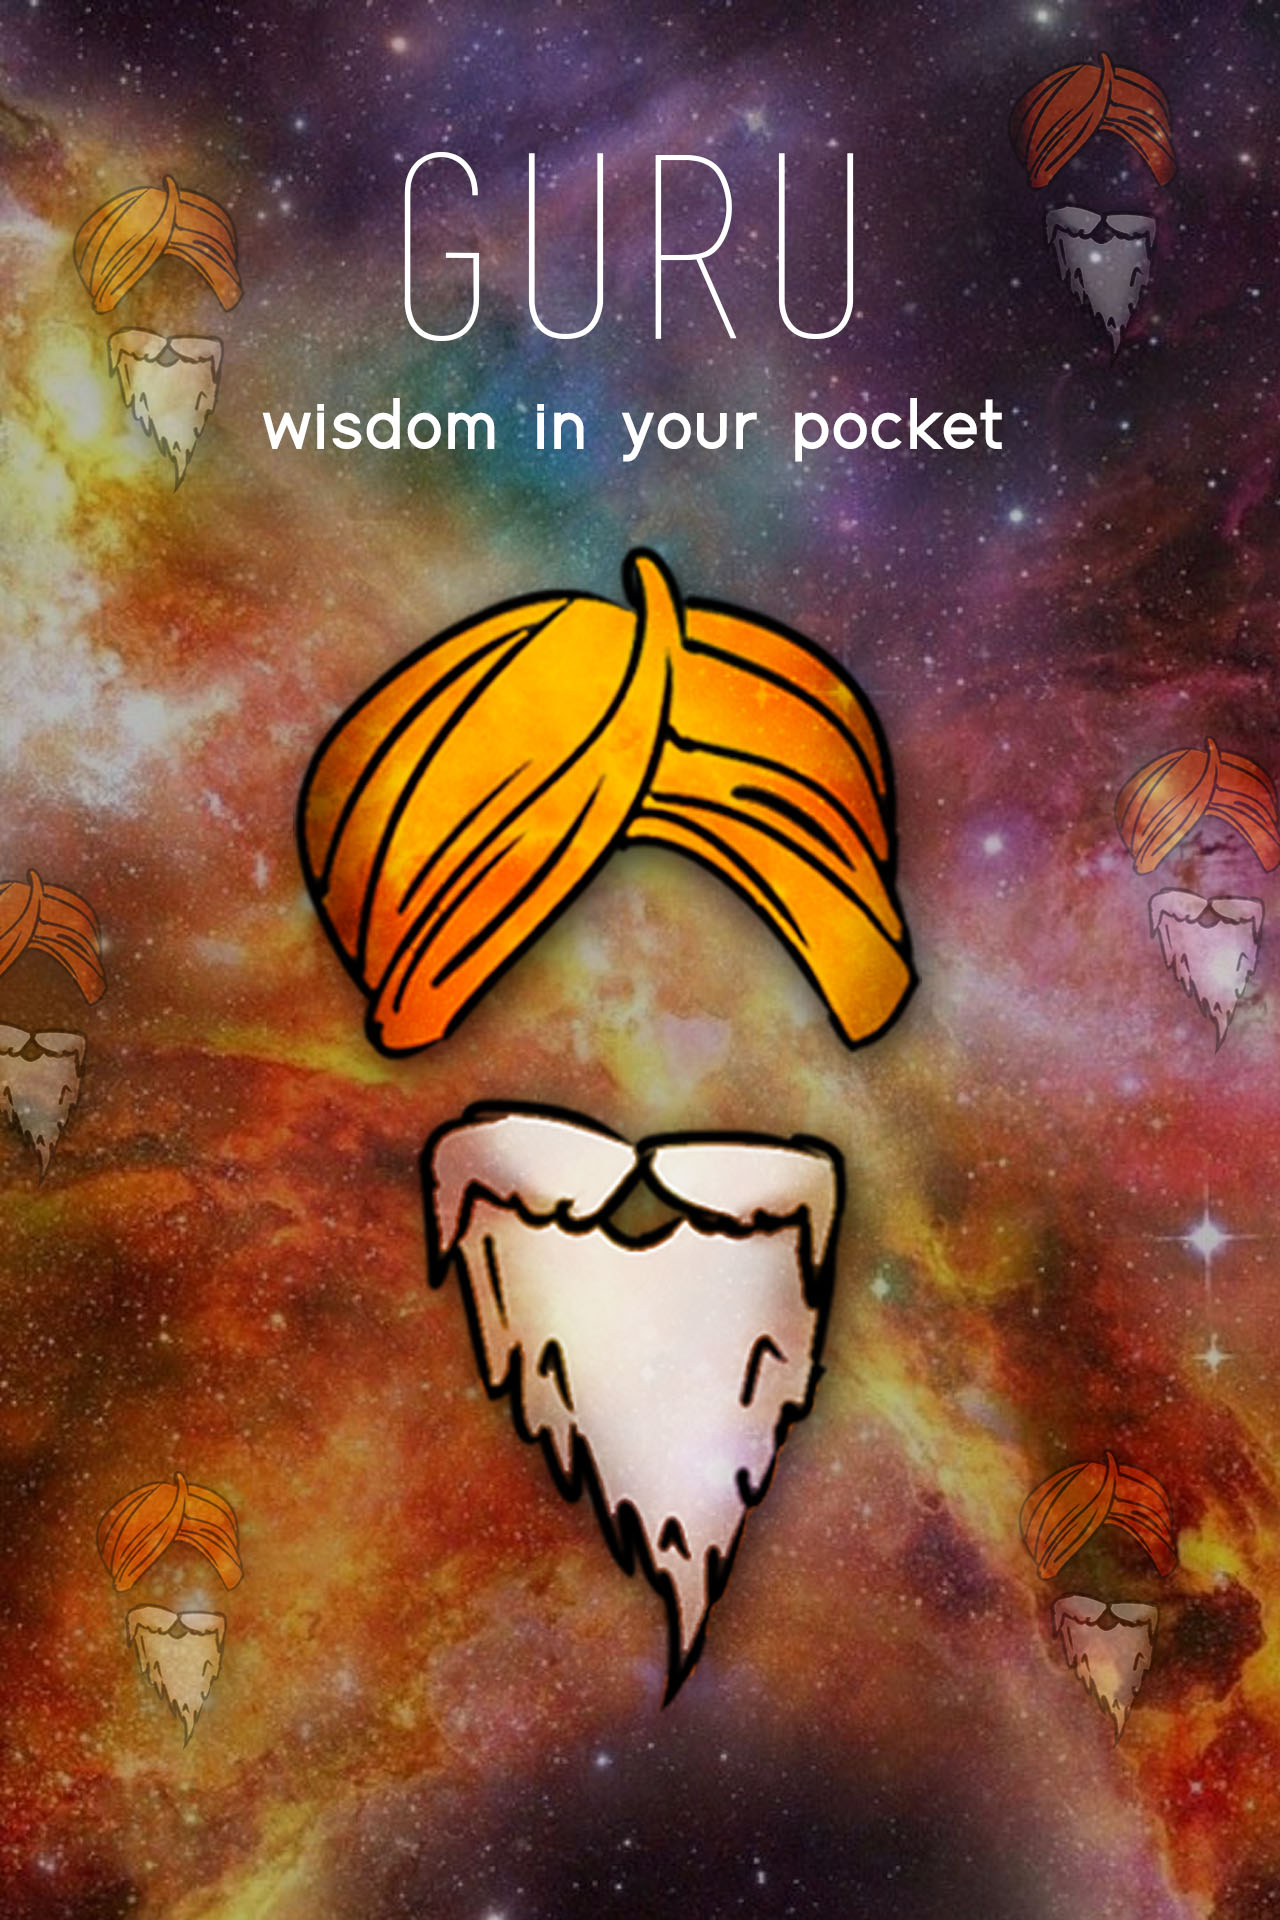
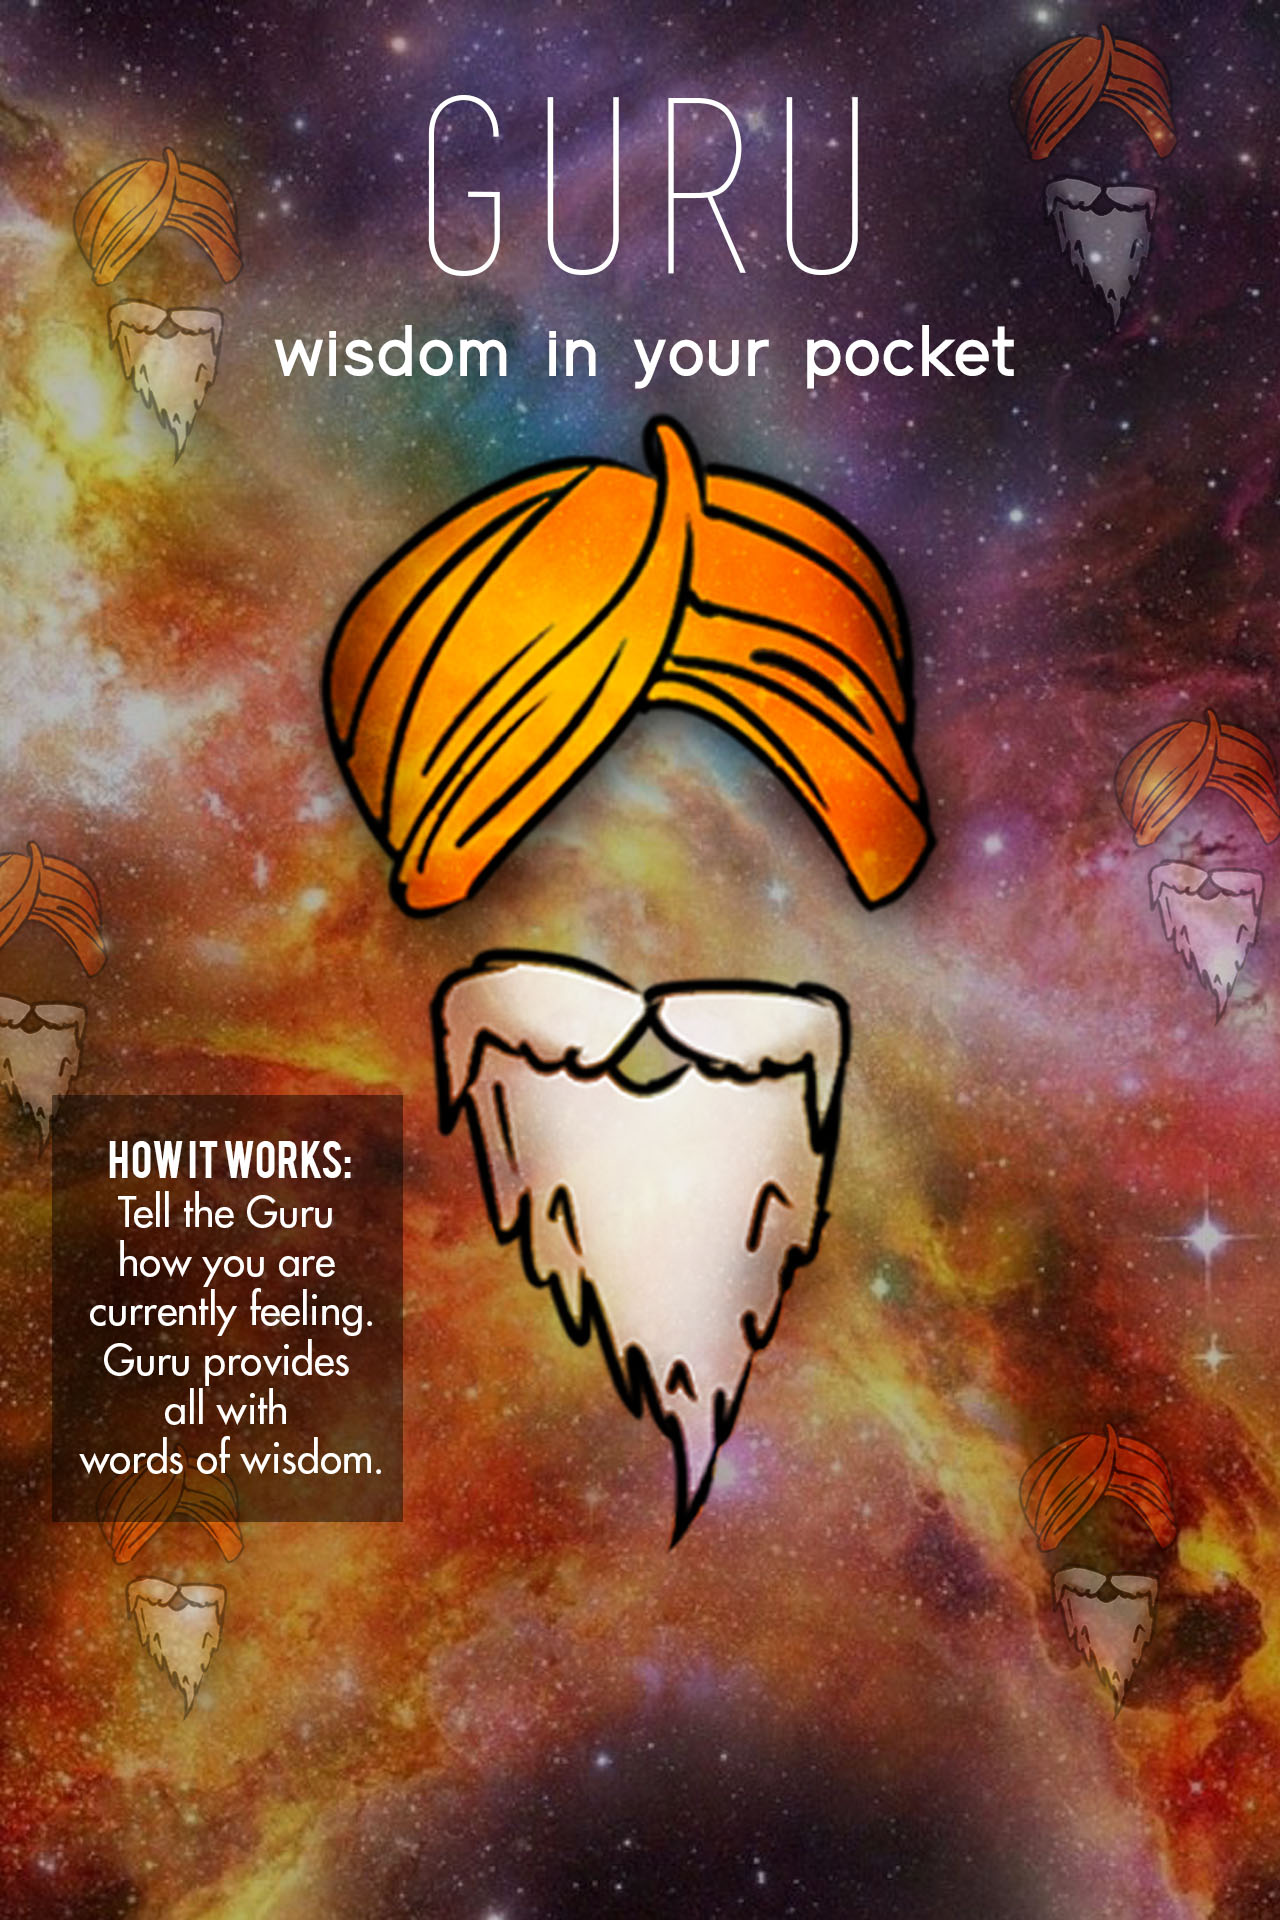
updated search page (not really search page)

diff --git a/Views/css/search_style.css b/Views/css/search_style.css
@@ -31,11 +31,22 @@ li a {
 }
 
 li a:hover:not(.active) {
-    background-color: #111;
     text-decoration: none;
+    background: white;
+    color: black;
 }
 
 .active {
-    background-color: #4CAF50;
     text-decoration: none;
+}
+
+#ask_guru {
+    text-align: center;
+    margin-left: auto;
+    margin-right: auto;
+    margin-top: 130%;
+}
+
+#ask_guru input {
+    padding: 10px 12px;
 }

diff --git a/Views/search.html b/Views/search.html
@@ -13,6 +13,11 @@
     </head>
 
     <body>
+        <div id="ask_guru">
+            <input type="text" name="ask_guru" placeholder="I feel like skipping the gym.">
+            <input type="submit" value="Ask Guru">
+        </div>
+
         <div id="footer">
             <ul>
                 <li><a class="active" href="#home">Search</a></li>

diff --git a/Views/css/create_style.css b/Views/css/create_style.css
@@ -1,0 +1,3 @@
+body {
+    margin-bottom: 10px;
+}
